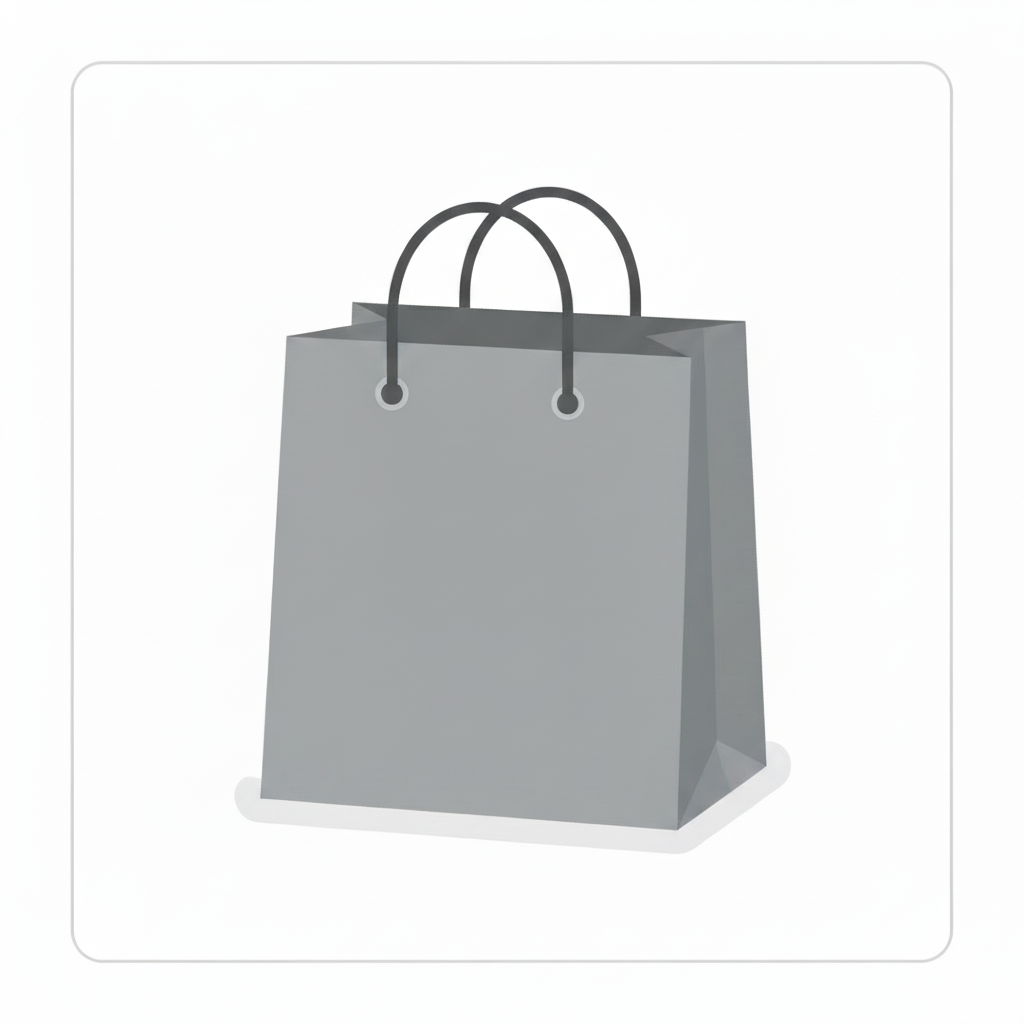
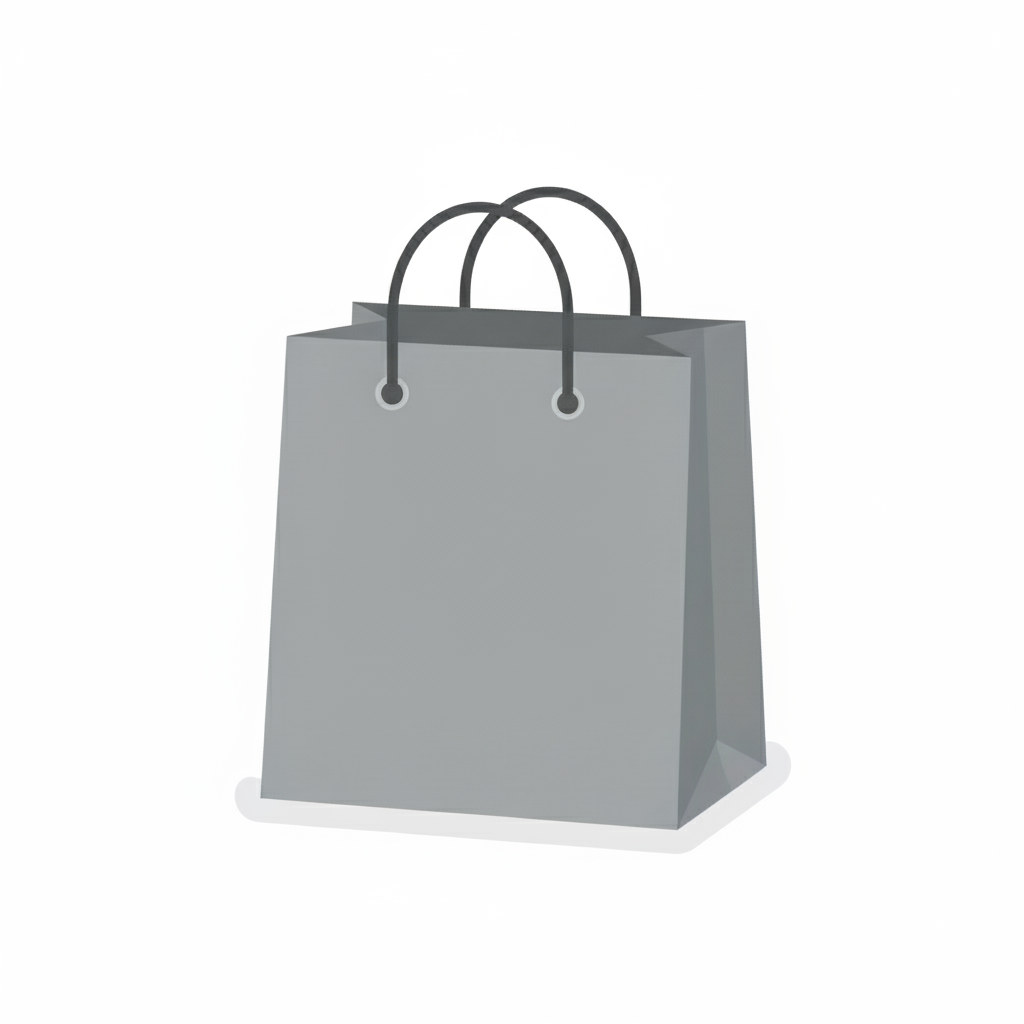
Fiix : fix default image

diff --git a/src/app/controllers/HomeController.php b/src/app/controllers/HomeController.php
@@ -82,11 +82,9 @@ class HomeController extends BaseController {
         $productsData = $this->productService->getAllProducts($filters);
         $categories = $this->categoryService->getAllCategories();
         
-        // Cek apakah ini AJAX request?
-        $isAjax = !empty($_SERVER['HTTP_X_REQUESTED_WITH']) && 
-                  strtolower($_SERVER['HTTP_X_REQUESTED_WITH']) == 'xmlhttprequest';
+        $isAjax = !empty($_SERVER['HTTP_X_REQUESTED_WITH']) && strtolower($_SERVER['HTTP_X_REQUESTED_WITH']) == 'xmlhttprequest';
                   
-        $actionUrl = '/'; // Definisikan actionUrl untuk partial
+        $actionUrl = '/';
 
         if ($isAjax) {
             // Jika AJAX, render HANYA partial-nya